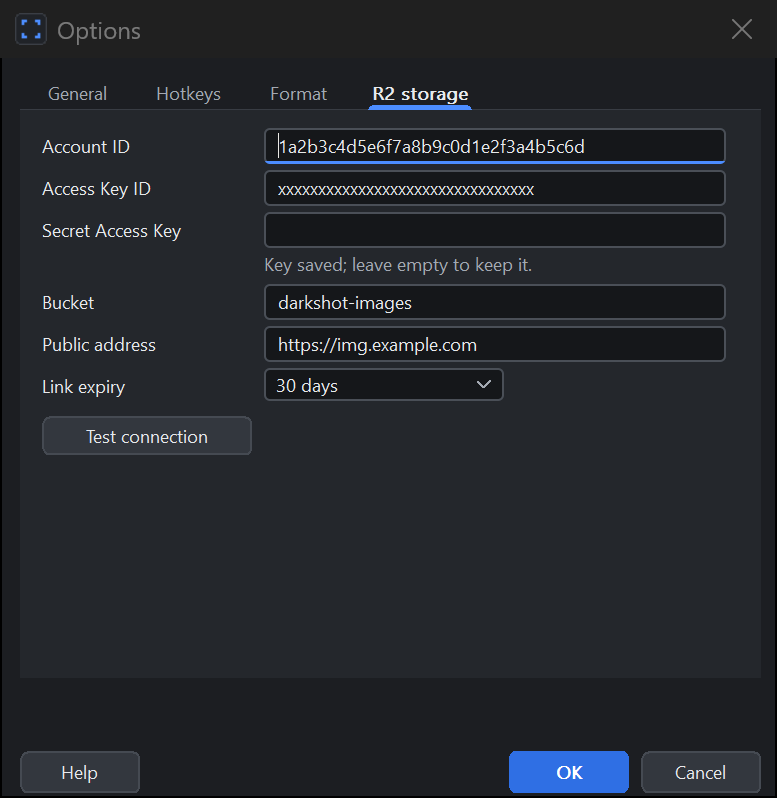
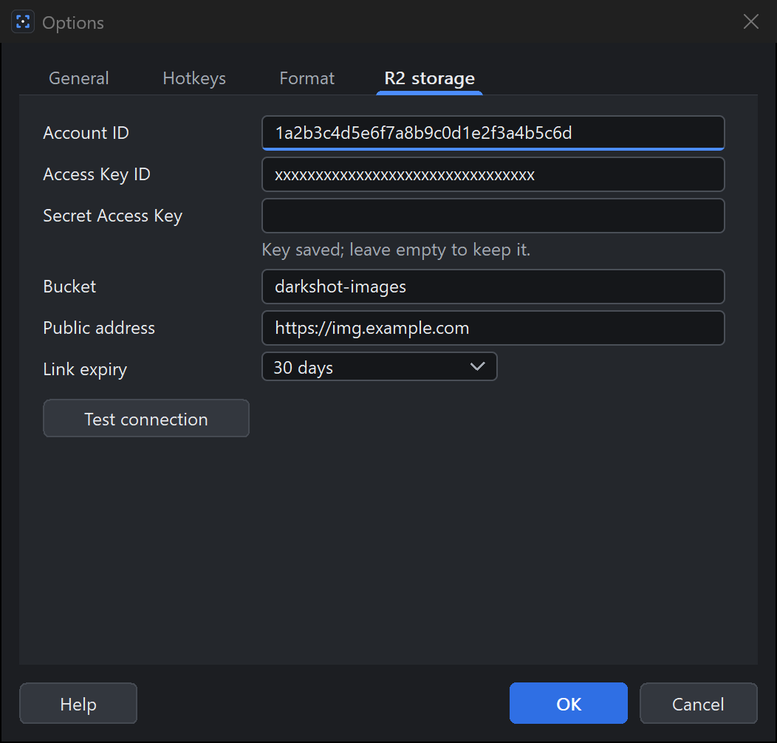
docs: recapture options screenshots after spacing fix

diff --git a/website/README.md b/website/README.md
@@ -64,7 +64,7 @@ website/
 ## Minh họa và ảnh chụp
 
 - Hai ảnh chụp thật: cửa sổ Lịch sử (dữ liệu mẫu giữ chỗ) và cửa sổ Tùy chọn (tab Thông thường, đã cắt bỏ ô Thư mục lưu vì chứa đường dẫn máy). Nguồn: `target/demo7/screens`, `target/demo8/screens`, `target/demo9/screens` (Lịch sử có nút Ghim).
-- Ảnh chụp thật (Task 108): `pin.webp` (một ngôn ngữ, cửa sổ ghim không có chữ giao diện), `ocr-*.webp`, `steps-*.webp`, `scroll-*.webp`. Dữ liệu mẫu bịa vẽ bằng mã (biểu đồ "Weekly sign-ups", chữ "Quarterly report summary", hộp thoại "Example settings", bài viết "Example Journal"). Tạo lại: `$env:DARKSHOT_WEBSHOTS = "<repo>\target\webshots"; cargo test -p darkshot-windows webshot_ -- --ignored --test-threads=1` (PrintWindow cửa sổ của chính tiến trình kiểm thử, hồ sơ tạm, không chuột/phím, không clipboard), rồi đổi PNG sang WebP (rộng 1300 px; cuộn 720 px; chất lượng 86). Ảnh `options-*.webp` (Tùy chọn, tab Thông thường, thư mục lưu giả `C:/Screenshots`) tạo từ `webshot_options` (Task 139): `cargo test -p darkshot-windows webshot_options -- --ignored --test-threads=1`, cắt `crop=776:560:0:0` từ PNG cửa sổ, rồi `ffmpeg -i options-en.png -vf crop=776:560:0:0 -c:v libwebp -quality 86 options-en.webp`; đổi `width`/`height` và `alt` trong `index.html` + `vi.json` nếu đổi giao diện.
+- Ảnh chụp thật (Task 108): `pin.webp` (một ngôn ngữ, cửa sổ ghim không có chữ giao diện), `ocr-*.webp`, `steps-*.webp`, `scroll-*.webp`. Dữ liệu mẫu bịa vẽ bằng mã (biểu đồ "Weekly sign-ups", chữ "Quarterly report summary", hộp thoại "Example settings", bài viết "Example Journal"). Tạo lại: `$env:DARKSHOT_WEBSHOTS = "<repo>\target\webshots"; cargo test -p darkshot-windows webshot_ -- --ignored --test-threads=1` (PrintWindow cửa sổ của chính tiến trình kiểm thử, hồ sơ tạm, không chuột/phím, không clipboard), rồi đổi PNG sang WebP (rộng 1300 px; cuộn 720 px; chất lượng 86). Ảnh `options-*.webp` (Tùy chọn, tab Thông thường, thư mục lưu giả `C:/Screenshots`) tạo từ `webshot_options` (Task 139): `cargo test -p darkshot-windows webshot_options -- --ignored --test-threads=1`, thu PNG cửa sổ về rộng 776 px rồi cắt (Task 148): `ffmpeg -i options-en.png -vf "scale=776:-1:flags=lanczos,crop=776:560:0:0" -c:v libwebp -quality 86 options-en.webp`; đổi `width`/`height` và `alt` trong `index.html` + `vi.json` nếu đổi giao diện.
 - Mọi hình còn lại (lớp phủ chụp, thanh công cụ, đánh dấu, che thông tin, bắt cửa sổ, thanh hành động) là SVG dựng lại theo bố cục và màu thật trong `crates/darkshot-core/src/theme.rs`, luôn kèm chú thích "Minh họa". Nội dung mẫu (hóa đơn Acme, email `jane.doe@example.com`, khóa `sk_test_EXAMPLE_0000`, link `img.example.com`) đều bịa, không dữ liệu thật.
 - Cần ảnh chụp thật cho lớp phủ: chụp bằng bản build thật rồi thay `scene.ts` trong từng mục (không dùng ảnh có màn hình riêng của ai).
 
